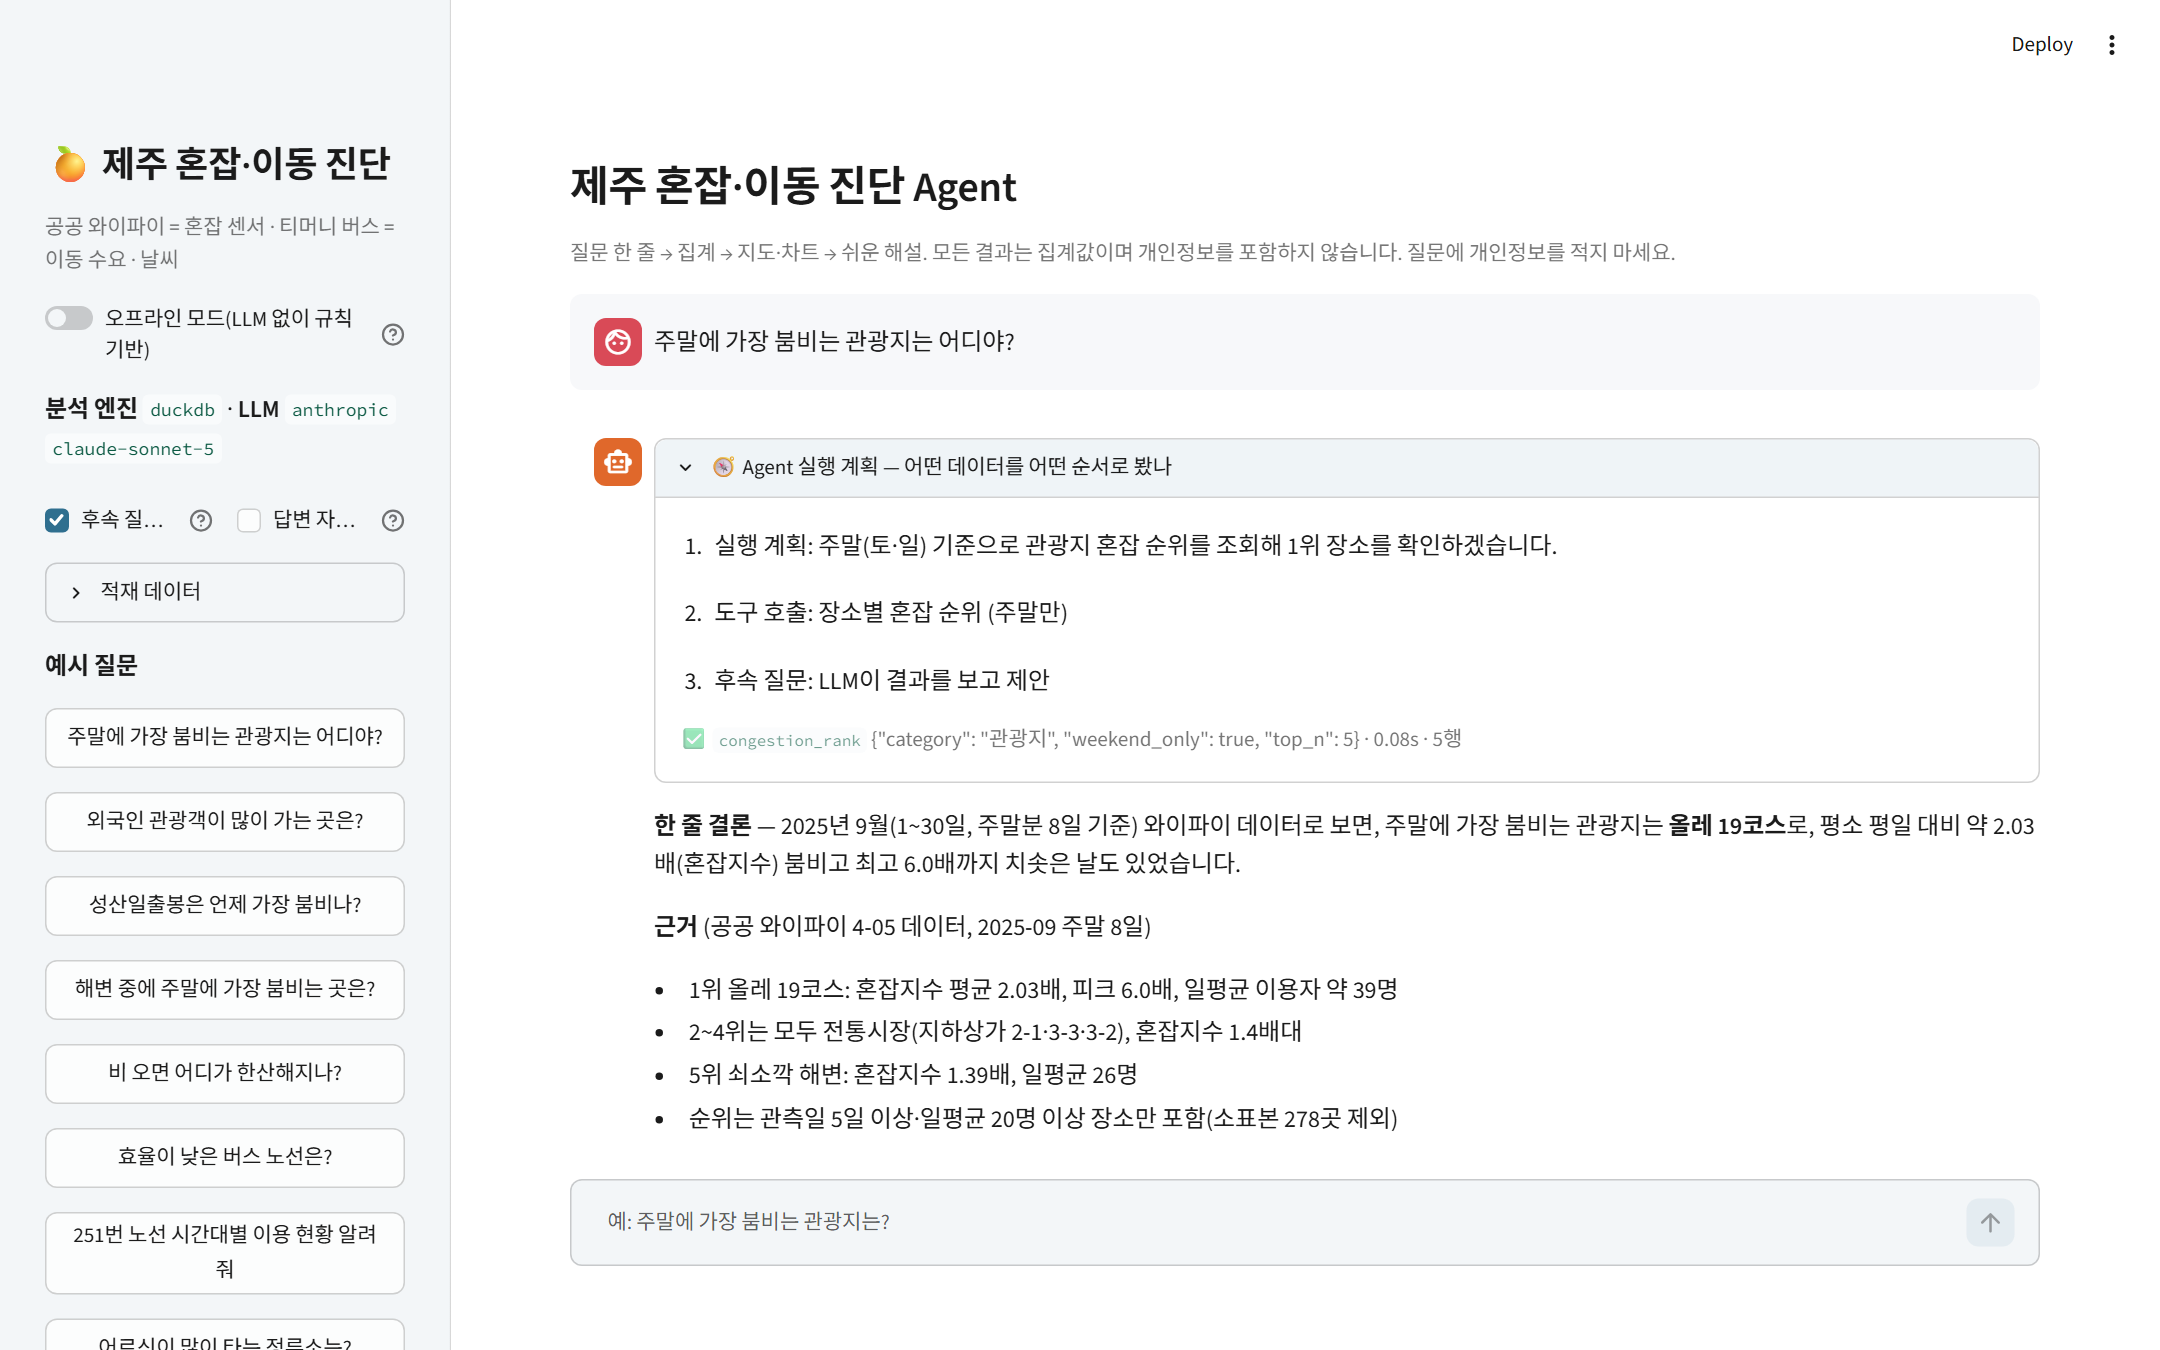
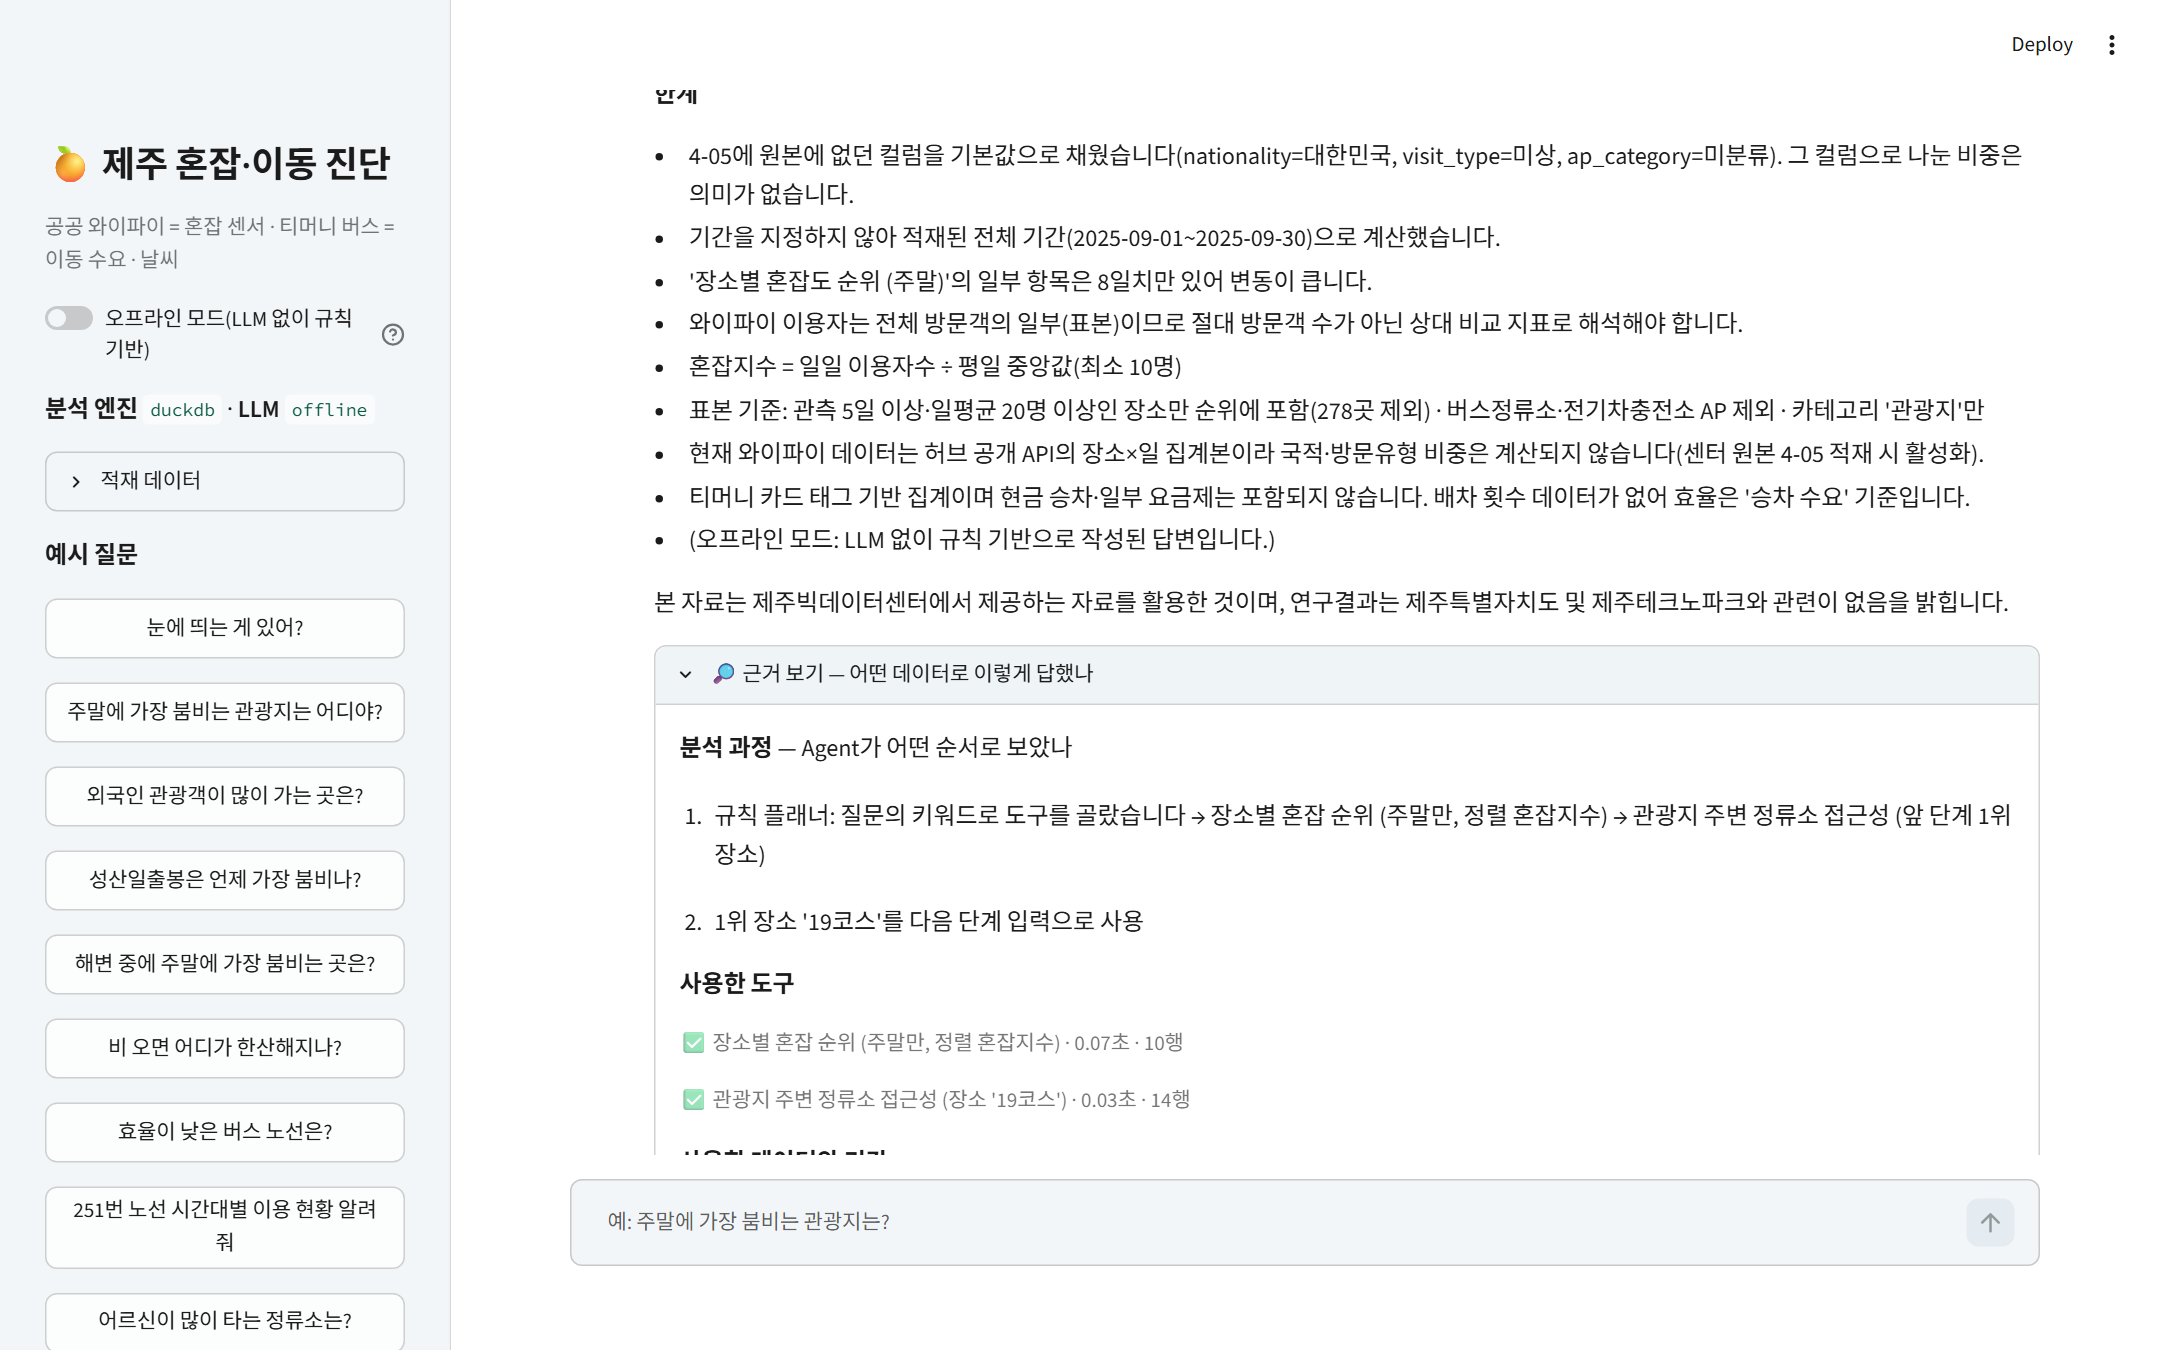
UI 가독성 개선: 첫 화면 서비스 설명·적재 범위, 답변 아래 '근거 보기', 한국어 라벨·숫자 서식(ui/format.py)
- 첫 화면: 한 줄 서비스 설명 + 실제 적재 기간 캡션(provenance에서 읽음) + '이 서비스는 무엇인가요?' 펼침, 섹션 제목 정리, 발견 카드를 쉬운 말 우선으로
- 답변: 'Agent 실행 계획'(답변 위) → '근거 보기'(답변 아래)로 이동·개편(도구 한국어 라벨, 사용 데이터·기간, 한계), 지표 라벨 한국어화
- 표·차트: 컬럼 한국어 매핑, 천 단위 구분·비중/변화율 % 서식, 단위·기간 캡션, y축 제목
- 진행·오류: st.status 단계 표시, 예외는 '기술 상세' 펼침 + 시작 질문 버튼 복귀, 빈 결과 안내
- 버그 수정: render_map의 삼항식이 streamlit magic에 걸려 st.help 표가 지도 자리에 그려지던 문제
- capture_screens: '근거 보기' 로케이터, networkidle→load 대기, 첫 화면 스크롤 복원; 스크린샷 전체 재캡처

diff --git a/ui/format.py b/ui/format.py
@@ -1,0 +1,205 @@
+"""화면 표시 전용 포매터 — Agent 로직과 무관한 한국어 라벨·숫자 서식·공용 문구 모음.
+
+jeju_agent 쪽은 읽기만 한다(TOOL_KO·describe_step 재사용). 여기 바꿔도 분석 결과는 달라지지 않는다.
+"""
+from __future__ import annotations
+
+import pandas as pd
+
+from jeju_agent import schemas
+from jeju_agent.data.loader import INFO_TABLES
+from jeju_agent.insight import TOOL_KO, describe_step  # noqa: F401  (표시용 재사용)
+
+# ---------------- 공용 문구 (두 곳 이상에서 쓰는 사용자 노출 문자열) ----------------
+SERVICE_ONELINER = "공공 와이파이 접속과 버스 승하차 데이터로 제주 관광지의 혼잡과 대중교통 수요를 진단합니다."
+PRIVACY_NOTE = "모든 결과는 집계값이며 개인정보를 포함하지 않습니다. 질문에 개인정보를 적지 마세요."
+
+ABOUT_MD = """\
+- **무엇을 하나요?** 제주 공공 와이파이 접속 기록을 '혼잡 센서'로, 티머니 버스 승하차를 '이동 수요'로 삼아,
+  질문 한 줄에 지도·차트·표와 쉬운 해설로 답합니다.
+- **어떤 데이터를 쓰나요?** 제주데이터허브의 공공 와이파이 AP 이용(4-05), 버스 정류소·노선 이용(3-04·3-02),
+  일일 날씨(5-02) 등입니다. 실제 적재 기간은 위 안내와 사이드바 '적재 데이터'에서 확인할 수 있습니다.
+- **답은 어떻게 만드나요?** Agent가 질문에 맞는 분석 도구를 골라 집계를 돌리고,
+  모든 답 아래 '근거 보기'에 사용한 도구·데이터·기간·한계를 남깁니다.
+- **개인정보는요?** 원본 행과 식별자는 화면·외부 LLM 어디에도 나가지 않습니다. 집계값만 쓰고, 10명 미만 집계는 가려집니다.
+"""
+
+STARTERS = ["주말에 가장 붐비는 관광지는 어디야?", "효율이 낮은 버스 노선은?", "어르신이 많이 타는 정류소는?",
+            "비 오면 어디가 한산해지나?", "이번 주말 어디가 붐빌까?", "9월 월간 브리핑 보여줘"]
+
+EVIDENCE_TITLE = "🔎 근거 보기 — 어떤 데이터로 이렇게 답했나"
+TECH_DETAIL_TITLE = "기술 상세"
+
+# '오늘의 발견' 유형 → 쉬운 말 (숫자 규칙은 괄호로 뒤에 붙인다)
+ANOMALY_PHRASE = {
+    "급증": "평소보다 크게 늘었어요",
+    "급감": "평소보다 크게 줄었어요",
+    "최근 붐빔": "요즘 계속 평소보다 붐벼요",
+    "최근 한산": "요즘 계속 평소보다 한산해요",
+}
+
+# ---------------- 내부 식별자 → 한국어 라벨 ----------------
+# 근거 표·차트에 노출되는 영문 컬럼 키. 표시용 복사본만 바꾸며 원본 DataFrame은 건드리지 않는다.
+COL_KO = {
+    "rank": "순위", "ap_place": "장소", "category": "분류", "days": "관측 일수",
+    "avg_daily_users": "일평균 이용자(명)", "avg_users": "일평균 이용자(명)", "user_count": "이용자 수(명)",
+    "avg_congestion_index": "평균 혼잡지수", "peak_congestion_index": "최고 혼잡지수",
+    "predicted_congestion_index": "예상 혼잡지수",
+    "bus_station_name": "정류소", "bus_route_name": "노선", "bus_route_number": "노선 번호",
+    "daily_boardings": "일평균 승차(명)", "boardings": "승차(명)", "avg_boardings": "평균 승차(명)",
+    "vulnerable_share": "교통약자 비중", "senior_share": "어르신 비중", "weekend_ratio": "주말/평일 비율",
+    "tourist_share": "관광객 비중", "foreign_share": "외국인 비중",
+    "rain_days": "비 온 날수", "dry_days": "맑은 날수", "observatory_code": "관측소 코드",
+    "weekday_dry_avg": "평일·맑은 날 평균(명)", "weekday_rain_avg": "평일·비 온 날 평균(명)", "weekday_rain_effect": "평일 강우 변화율",
+    "weekend_dry_avg": "주말·맑은 날 평균(명)", "weekend_rain_avg": "주말·비 온 날 평균(명)", "weekend_rain_effect": "주말 강우 변화율",
+    "basis_days": "근거 일수", "min_days": "최소 일수",
+    "boardings_per_km": "km당 승차(명)", "boardings_per_station": "정류소당 승차(명)", "bus_route_length": "노선 길이(km)",
+    "n_low_hours": "한산 시간대 수", "low_hours": "한산 시간대", "peak_hour": "최다 승차 시각",
+    "bus_city_type": "지역 구분", "distance_km": "거리(km)",
+    "date": "날짜", "dow": "요일", "ym": "월", "hour": "시각",
+    "lat": "위도", "lon": "경도", "latitude": "위도", "longitude": "경도",
+    "label": "대상", "value": "값",
+}
+
+# 영문 정렬 기준·대상 enum → 한국어 (describe_step 문구에 남는 내부 값 치환용)
+ENUM_KO = {
+    "congestion_index": "혼잡지수", "users": "이용자 수", "boardings": "승차 인원",
+    "vulnerable_share": "교통약자 비중", "senior_share": "어르신 비중", "weekend_ratio": "주말/평일 비율",
+    "bus_station": "버스 정류소", "bus_route": "버스 노선", "wifi": "와이파이 장소",
+}
+
+
+def korean_enums(text: str) -> str:
+    """표시용 문장에 남은 영문 enum 값(정렬 기준 등)을 한국어로 치환한다. Agent가 만든 plan 문장에도 쓴다."""
+    for en, ko in ENUM_KO.items():
+        text = text.replace(f"정렬 {en}", f"정렬 {ko}")
+    return text
+
+
+def describe_step_ko(tool: str, args: dict) -> str:
+    """describe_step 결과에서 영문 enum 값까지 한국어로 바꾼 표시용 한 줄."""
+    return korean_enums(describe_step(tool, args))
+
+DATASET_SHORT_KO = {  # 첫 화면 적재 안내용 짧은 이름 (핵심 데이터만)
+    "wifi_ap_usage": "와이파이 접속", "bus_station_usage": "버스 정류소 승차",
+    "bus_route_usage": "버스 노선 이용", "weather_daily": "날씨",
+}
+
+SOURCE_KO = {"raw": "실데이터", "synthetic": "개발용 합성", "missing": "미적재"}
+
+
+def dataset_ko(key: str) -> str:
+    """'wifi_ap_usage' → '4-05 와이파이 AP별 이용 현황'."""
+    try:
+        d = schemas.dataset(key)
+        return f"{d['code']} {d['name']}"
+    except Exception:  # noqa: BLE001
+        return key
+
+
+def dataset_line(db, key: str) -> str:
+    """근거 보기용 한 줄: 이름 · 기간 · 행수 · 출처."""
+    p = db.provenance.get(key)
+    if p is None:
+        return dataset_ko(key)
+    period = f", {p.date_min} ~ {p.date_max}" if p.date_min else ""
+    return f"{dataset_ko(key)} — {p.rows:,}행{period} · {SOURCE_KO.get(p.source, p.source)}"
+
+
+def mode_ko(mode: str) -> str:
+    if mode.startswith("llm:"):
+        return "LLM 해설"
+    if mode.startswith("offline(fallback"):
+        return "오프라인 대체"
+    return "오프라인"   # st.metric 값이 잘리지 않게 짧게 (규칙 기반이라는 설명은 사이드바에)
+
+
+# ---------------- 숫자·표 서식 ----------------
+def _short_end(dmin: str, dmax: str) -> str:
+    """같은 해면 종료일의 연도를 줄인다. ~ 양옆 공백은 마크다운 취소선(~쌍) 오인 방지용."""
+    if dmin and dmax and dmin[:4] == dmax[:4]:
+        return f"{dmin} ~ {dmax[5:]}"
+    return f"{dmin} ~ {dmax}"
+
+
+def coverage_caption(db) -> str:
+    """첫 줄 설명 밑에 붙는 실제 적재 범위. 하드코딩이 아니라 적재 결과(provenance)에서 읽는다."""
+    bits = []
+    for key, label in DATASET_SHORT_KO.items():
+        p = db.provenance.get(key)
+        if p is not None and p.date_min:
+            bits.append(f"{label} {_short_end(p.date_min, p.date_max)}")
+    cov = " · ".join(bits) if bits else "적재된 데이터가 없습니다"
+    syn = " · ⚠ 개발용 합성 데이터 포함" if db.uses_synthetic() else ""
+    return f"적재 데이터: {cov}{syn} · {PRIVACY_NOTE}"
+
+
+def data_range(db) -> tuple[str, str]:
+    ps = [p for k, p in db.provenance.items() if p.date_min and k not in INFO_TABLES]
+    return (min(p.date_min for p in ps), max(p.date_max for p in ps)) if ps else ("", "")
+
+
+def no_result_text(db) -> str:
+    dmin, dmax = data_range(db)
+    period = f"지금은 **{dmin} ~ {dmax}** 기간의 와이파이·버스 데이터만 들어 있어요." if dmin else "지금은 적재된 데이터가 없어요."
+    return ("이 질문에 맞는 집계 결과를 만들지 못했어요. 질문의 장소·기간이 데이터 밖이거나, 질문을 이해하지 못했을 수 있어요. "
+            f"{period} 아래 버튼으로 다시 시작해 보세요.")
+
+
+def unit_period_caption(r, db) -> str:
+    """표·차트 밑에 붙는 '단위 · 기간' 설명."""
+    ds = set(r.datasets)
+    units = []
+    if any(k.startswith("wifi") for k in ds):
+        units.append("이용자 수는 명(와이파이 접속 기준)")
+    if any(k.startswith("bus") for k in ds):
+        units.append("승차 인원은 명")
+    if "혼잡" in (r.title or "") or any("congestion" in str(c) for c in r.table.columns):
+        units.append("혼잡지수는 단위 없는 상대값")
+    bits = ["단위: " + ", ".join(units)] if units else []
+    df_, dt_ = r.params.get("date_from"), r.params.get("date_to")
+    if df_ or dt_:
+        bits.append(f"기간: {df_ or '데이터 시작'} ~ {dt_ or '데이터 끝'}")
+    else:
+        ps = [db.provenance[k] for k in ds if k in db.provenance and db.provenance[k].date_min and k not in INFO_TABLES]
+        if ps:
+            bits.append(f"기간: {min(p.date_min for p in ps)} ~ {max(p.date_max for p in ps)}")
+    return " · ".join(bits)
+
+
+def _num(v, pct: bool = False):
+    try:
+        f = float(v)
+    except (TypeError, ValueError):
+        return v
+    if pd.isna(f):
+        return ""
+    if pct:
+        return f"{f:.1%}"
+    if f == int(f) and abs(f) < 1e15:
+        return f"{int(f):,}"
+    return f"{f:,.1f}"
+
+
+def styled(df: pd.DataFrame):
+    """표시용 표: 컬럼명 한국어화 + 천 단위 구분 + 소수 1자리 + 비중은 %."""
+    d = df.rename(columns={c: COL_KO.get(str(c), str(c)) for c in df.columns})
+    fmts = {}
+    for c in d.columns:
+        if pd.api.types.is_numeric_dtype(d[c]):
+            pct = ("비중" in str(c)) or ("변화율" in str(c))
+            fmts[c] = (lambda p: (lambda v: _num(v, p)))(pct)
+    return d.style.format(fmts, na_rep="")
+
+
+def steps_df(steps) -> pd.DataFrame:
+    """실행 로그 탭용: 내부 도구명·JSON 인자 대신 한국어 설명."""
+    return pd.DataFrame([{
+        "도구": TOOL_KO.get(s.tool, s.tool),
+        "내용": describe_step_ko(s.tool, s.args),
+        "성공": "✅" if s.ok else "❌",
+        "소요(초)": s.seconds,
+        "결과 행 수": s.rows,
+        "반출 게이트": " / ".join(s.gate),
+        "오류": s.error,
+    } for s in steps])

diff --git a/scripts/capture_screens.py b/scripts/capture_screens.py
@@ -7,7 +7,7 @@
 
 저장되는 파일 (docs/screens/)
   01_home.png        첫 화면(혼잡 상위 5곳 지도 · 오늘의 발견 · 질문 버튼)
-  02_answer.png      답변 + 실행 계획 패널 + 이어서 물어보기
+  02_answer.png      답변 + '근거 보기' 패널 + 이어서 물어보기
   03_map.png         지도 탭
   04_chart.png       차트 탭
   05_evidence.png    근거 표 탭
@@ -27,6 +27,13 @@ from pathlib import Path
 ROOT = Path(__file__).resolve().parent.parent
 OUT = ROOT / "docs" / "screens"
 QUESTION = "주말에 가장 붐비는 관광지는 어디야?"
+
+
+def scroll_top(page):
+    """chat_input 때문에 화면이 아래로 내려가 있으면 맨 위(제목·지도)로 올려서 찍는다."""
+    page.evaluate("document.querySelectorAll('[data-testid=stAppScrollToBottomContainer], section.stMain, section.main, "
+                  "[data-testid=stMain], [data-testid=stAppViewContainer]').forEach(el => el.scrollTo(0, 0))")
+    page.wait_for_timeout(500)
 
 
 def wait_ready(page, timeout=90):
@@ -67,8 +74,10 @@ def main() -> int:
         with sync_playwright() as p:
             b = p.chromium.launch()
             page = b.new_page(viewport={"width": 1440, "height": 900}, device_scale_factor=1.5)
-            page.goto(url, wait_until="networkidle", timeout=120_000)
+            # networkidle 은 지도 타일 스트리밍 때문에 끝나지 않을 수 있어 load + wait_ready 로 대기
+            page.goto(url, wait_until="load", timeout=120_000)
             wait_ready(page, 120)   # 첫 실행은 데이터 적재(합성 생성 시 최대 1분)
+            scroll_top(page)
             page.screenshot(path=str(OUT / "01_home.png"))
             print("01_home")
 
@@ -78,12 +87,12 @@ def main() -> int:
                 wait_ready(page, 120)
                 page.screenshot(path=str(OUT / "08_discover.png"))
                 print("08_discover")
-                page.goto(url, wait_until="networkidle", timeout=120_000)
+                page.goto(url, wait_until="load", timeout=120_000)
                 wait_ready(page, 120)
 
             page.get_by_role("button", name=QUESTION).first.click()
             wait_ready(page, 120)
-            page.locator("text=Agent 실행 계획").first.click()
+            page.locator("summary", has_text="근거 보기").first.click()   # 답변 아래 '근거 보기' 펼침
             page.wait_for_timeout(500)
             page.screenshot(path=str(OUT / "02_answer.png"), full_page=False)
             print("02_answer")
